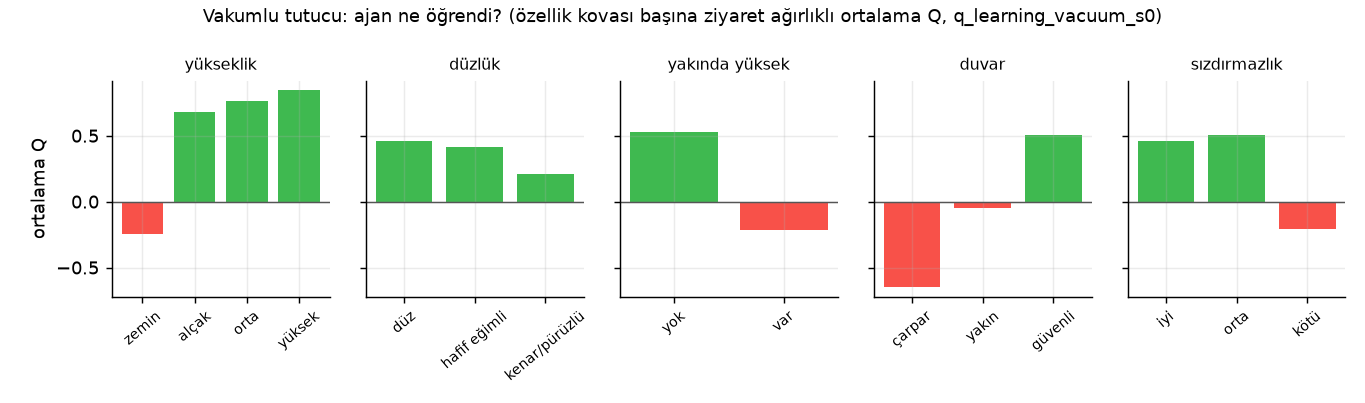
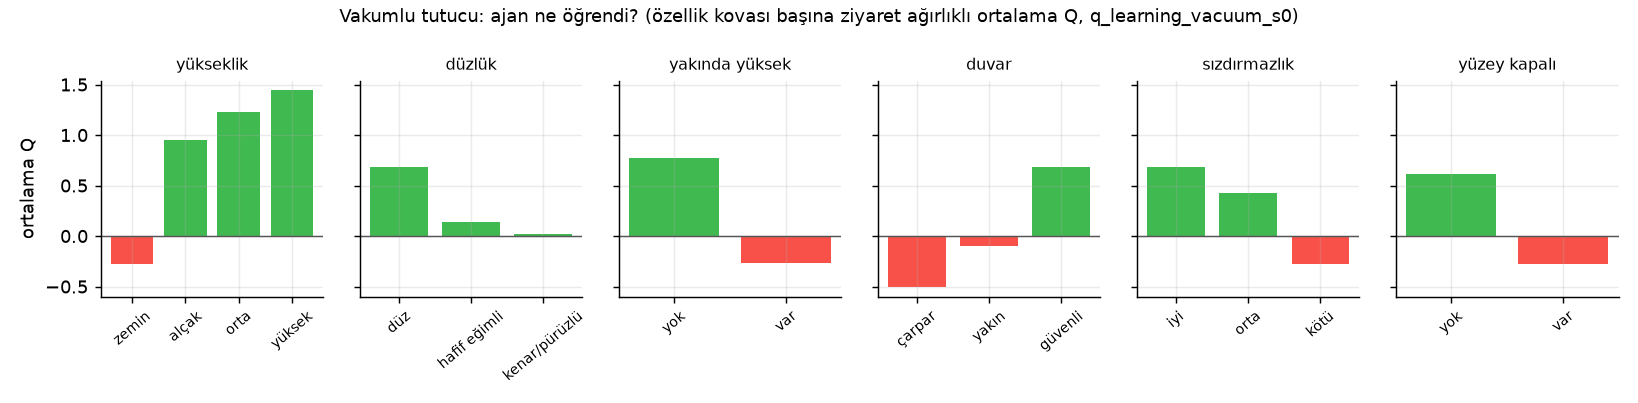
Vakum: yüzey bölütlemesine dayalı "yüzey_kapalı" özelliği
Vakumlu tutucuda tablo ajanları sezgiselin gerisindeydi (Q-learning %51.3,
SARSA %48.8, sezgisel %60.6). Başarısızlık kodları sayılınca asıl nedenin
"covered" olduğu görüldü (ajan adımlarının %36.5'i, sezgiselin %21.7'si):
üstüne başka parça binmiş bir parçanın, üstteki parçadan uzak düz bölgesi
yerel özelliklerde açık bir parçayla aynı tablo hücresine düşüyordu.

- features.py: face_touches_higher görünen düz yüzeyleri bölütler ve bölge
  kenarında daha yüksek bir yüzey varsa bütün bölgeyi işaretler. Vakum
  tablosu 216 → 432 hücre; parmaklı özellikler değişmedi.
- Sızdırmazlığı ≥ %85 olan noktalarda örtülü parça oranı, özellik 0 iken
  %14.9'dan (yakında_yüksek) %2.7'ye düşüyor.
- Sonuç (3 tohum × 3000 bölüm, 200 test kutusu): vakumda Q-learning %64.3,
  SARSA %64.3, sezgisel %60.6; parmaklı sonuçlar aynı kaldı.
- Sunucu özellik haritası, arayüz başlığı, README tablosu ve test eklendi.

diff --git a/web/src/theme.ts b/web/src/theme.ts
@@ -32,6 +32,7 @@ export const FEATURE_TITLE: Record<string, string> = {
   genişlik: "Genişlik",
   ortalı: "Ortalı",
   sızdırmazlık: "Sızdırmazlık",
+  yüzey_kapalı: "Yüzeyi kapatan parça",
 };
 
 // Yükseklik renk skalası (zemin koyu petrol → yüksek parça açık kehribar)

diff --git a/binpick/features.py b/binpick/features.py
@@ -38,6 +38,7 @@ BIN_LABELS = {
     "genişlik": [("sığar", "good"), ("sınırda", "mid"), ("çok geniş", "bad")],
     "ortalı": [("kenarda", "mid"), ("ortada", "good")],
     "sızdırmazlık": [("iyi", "good"), ("orta", "mid"), ("kötü", "bad")],
+    "yüzey_kapalı": [("yok", "good"), ("var", "bad")],
 }
 
 FEATURE_INFO = {
@@ -49,6 +50,8 @@ FEATURE_INFO = {
     "genişlik": "θ yönünde ölçülen yüzey genişliği, tutucu açıklığına sığıyor mu?",
     "ortalı": "Nokta, yüzeyin θ yönündeki ortasına yakın mı?",
     "sızdırmazlık": "Vantuz altındaki alanın ne kadarı aynı düz yüzey?",
+    "yüzey_kapalı": "Noktanın üzerinde durduğu düz yüzey (parçanın görünen üst yüzü) kenarında daha yüksek bir "
+    "yüzeye değiyor mu? Değiyorsa başka bir parça bu parçanın üstüne binmiş olabilir.",
 }
 
 
@@ -70,6 +73,33 @@ def _shift(a: np.ndarray, dr: int, dc: int, fill: float) -> np.ndarray:
     return out
 
 
+def face_touches_higher(h: np.ndarray, interior: np.ndarray, tol: float, thr: float, ring: int) -> np.ndarray:
+    """Her parça pikseli için: içinde bulunduğu düz yüzey, kenarında belirgin daha yüksek bir yüzeye değiyor mu?
+
+    `yakında_yüksek` yalnızca noktanın birkaç hücre çevresine bakar; üstü kapalı bir parçanın, üstteki
+    parçadan uzak düz bölgeleri ise yerel olarak açık bir parçadan ayırt edilemez. Burada görünen
+    yüzeyler bölütlenir (komşu yükseklik farkı `tol` altındaki bağlı bölgeler) ve özellik bölge
+    düzeyinde hesaplanır: bölgenin `ring` hücrelik çevresinde bölge yüksekliğinden `thr` kadar yüksek
+    bir nokta varsa bölgedeki bütün pikseller işaretlenir. Bir parçanın üstüne binen parça her zaman
+    daha yüksektir ve o parçanın görünen yüzüne bitişiktir; bu yüzden bu bilgi ortamın "üstü kapalı"
+    kuralının gözlemlenebilir karşılığıdır (öğrenme yok, sabit görüntü işleme).
+    """
+    on_part = interior & (h > 0.5)
+    span = ndimage.maximum_filter(h, 3, mode="nearest") - ndimage.minimum_filter(h, 3, mode="nearest")
+    lab, n = ndimage.label(on_part & (span < tol))
+    if n == 0:
+        return np.zeros(h.shape, dtype=int)
+    idx = np.arange(1, n + 1)
+    level = np.concatenate([[0.0], ndimage.median(h, lab, idx)])
+    around = ndimage.maximum_filter(np.where(interior, h, 0.0), size=2 * ring + 1, mode="nearest")
+    flag = np.concatenate([[False], np.asarray(ndimage.maximum(around, lab, idx)) > level[1:] + thr])
+    # Yüzey kenarındaki (3×3 içinde basamak olan) pikseller en yakın yüzeye, yükseklikleri uyuyorsa katılır.
+    _, (ri, ci) = ndimage.distance_transform_edt(lab == 0, return_indices=True)
+    nearest = lab[ri, ci]
+    lab = np.where((lab == 0) & on_part & (np.abs(h - level[nearest]) < tol), nearest, lab)
+    return (flag[lab] & (lab > 0)).astype(int)
+
+
 class FeatureExtractor:
     def __init__(self, env_cfg: EnvConfig, gripper_cfg: GripperConfig, feat_cfg: FeatureConfig, wall_mask: np.ndarray):
         self.ecfg, self.g, self.f = env_cfg, gripper_cfg, feat_cfg
@@ -80,8 +110,8 @@ class FeatureExtractor:
 
         g = self.g
         if g.kind == "vacuum":
-            self.names = ["yükseklik", "düzlük", "yakında_yüksek", "duvar", "sızdırmazlık"]
-            self.dims = [4, 3, 2, 3, 3]
+            self.names = ["yükseklik", "düzlük", "yakında_yüksek", "duvar", "sızdırmazlık", "yüzey_kapalı"]
+            self.dims = [4, 3, 2, 3, 3, 2]
             self.cup_offsets = geometry.cup_offsets(g)
         else:
             self.names = ["yükseklik", "düzlük", "yakında_yüksek", "duvar", "parmak_boşluğu", "genişlik", "ortalı"]
@@ -128,7 +158,8 @@ class FeatureExtractor:
         A = len(self.angles)
         shape = (A,) + h.shape
         ids = np.zeros(shape, dtype=np.int64)
-        raw = {"height": h, "level": level, "std": std, "higher": higher, "wall": [], "extent": [], "clear": [], "seal": None}
+        raw = {"height": h, "level": level, "std": std, "higher": higher, "wall": [], "extent": [], "clear": [], "seal": None,
+               "face_higher": None}
         h_obs = np.where(self.wall, self.ecfg.wall_height, h)
 
         seal_bin = None
@@ -139,6 +170,7 @@ class FeatureExtractor:
             seal = same / len(self.cup_offsets)
             raw["seal"] = seal
             seal_bin = np.where(seal >= f.seal_bins[0], 0, np.where(seal >= f.seal_bins[1], 1, 2))
+            raw["face_higher"] = face_higher = face_touches_higher(h, self.interior, g.surface_tol, f.neighbor_thr, f.face_ring)
 
         for k, th in enumerate(self.angles):
             overlap = ndimage.correlate(self.wall_f, self.body_k[k], mode="constant", cval=1.0) > 0.5
@@ -147,7 +179,7 @@ class FeatureExtractor:
             raw["wall"].append(wall)
 
             if g.kind == "vacuum":
-                feats = [level, flat, higher, wall, seal_bin]
+                feats = [level, flat, higher, wall, seal_bin, face_higher]
             else:
                 max_f = ndimage.maximum_filter(h_obs, footprint=self.finger_k[k], mode="constant", cval=self.ecfg.wall_height)
                 clear = max_f - (h - g.grasp_depth)

diff --git a/tests/test_binpick.py b/tests/test_binpick.py
@@ -88,6 +88,17 @@ def test_covered_part_cannot_be_lifted():
     assert info["outcome"] == SUCCESS
 
 
+def test_vacuum_face_feature_sees_cover_beyond_neighbor_radius():
+    _, env, fe = make_env("vacuum")
+    obs = env.reset(parts=[box(21, 21, length=14, width=6), box(21, 26, length=6, width=6)])
+    raw = fe.compute(obs).raw
+    # alttaki parçanın üstteki parçadan uzak ucu: yerel "yakında yüksek" görmez, yüzey özelliği görür
+    assert raw["higher"][21, 16] == 0
+    assert raw["face_higher"][21, 16] == 1
+    # üstteki parçanın yüzü açık
+    assert raw["face_higher"][21, 26] == 0
+
+
 @pytest.mark.parametrize("kind", ["parallel_jaw", "vacuum"])
 def test_feature_ids_in_range(kind):
     _, env, fe = make_env(kind)

diff --git a/binpick/config.py b/binpick/config.py
@@ -81,6 +81,7 @@ class FeatureConfig:
     flat_bins: tuple = (0.3, 1.0)          # yerel standart sapma: düz / hafif / pürüzlü
     neighbor_radius: int = 3
     neighbor_thr: float = 1.5              # yakında daha yüksek bir şey var mı
+    face_ring: int = 2                     # vakum: düz yüzeyin çevresinde daha yüksek yüzey aranan genişlik
     wall_margin: float = 2.0               # duvara "yakın" sayılan mesafe
     clear_bins: tuple = (0.0, 1.0)         # parmak bölgesi boşluğu: boş / sınırda / dolu
     seal_bins: tuple = (0.95, 0.85)        # vakum: iyi / orta / kötü

diff --git a/server/api.py b/server/api.py
@@ -277,6 +277,7 @@ def feature_maps(sid: str, angle_idx: int = 0):
     if g.kind == "vacuum":
         seal = f.raw["seal"]
         maps["sızdırmazlık"] = np.where(seal >= fe.f.seal_bins[0], 0, np.where(seal >= fe.f.seal_bins[1], 1, 2))
+        maps["yüzey_kapalı"] = f.raw["face_higher"]
     else:
         ext = f.raw["extent"][k]
         maps["parmak_boşluğu"] = np.digitize(f.raw["clear"][k], fe.f.clear_bins)

diff --git a/README.md b/README.md
@@ -105,8 +105,9 @@ Yükseklik haritasının tamamını tabloda tutmak imkânsızdır. Bunun yerine 
 | Genişlik* | 3 | $\theta$ yönünde ölçülen yüzey genişliği: sığar / sınırda / çok geniş |
 | Ortalı* | 2 | nokta, yüzeyin ortasında mı |
 | Sızdırmazlık** | 3 | vantuz altındaki aynı yüzey oranı |
+| Yüzeyi kapatan parça** | 2 | noktanın üzerinde durduğu düz yüzey (bölütlenmiş, parçanın görünen üst yüzü) kenarında daha yüksek bir yüzeye değiyor mu |
 
-\* parmaklı tutucu, \*\* vakumlu tutucu. Toplam tablo boyutu: parmaklıda $4 \cdot 3 \cdot 2 \cdot 3 \cdot 3 \cdot 3 \cdot 2 = 1296$, vakumluda $216$ hücre.
+\* parmaklı tutucu, \*\* vakumlu tutucu. Toplam tablo boyutu: parmaklıda $4 \cdot 3 \cdot 2 \cdot 3 \cdot 3 \cdot 3 \cdot 2 = 1296$, vakumluda $4 \cdot 3 \cdot 2 \cdot 3 \cdot 3 \cdot 2 = 432$ hücre.
 
 Özellik vektörü tek bir tamsayıya kodlanır, $\phi(s, a) \in \{0, \dots, N-1\}$, ve
 
@@ -178,9 +179,9 @@ _Bu bölüm `run_experiments.py` tarafından üretildi (2026-10-16). Ayar: 3 toh
 | Yöntem | Başarı oranı | Çarpışma oranı | Başarısız kavrama | Boşaltılan parça | Getiri | Adım |
 |---|---|---|---|---|---|---|
 | Rastgele | %3.4 | %10.1 | %86.5 | %8.5 | -5.85 | 24.68 |
-| **Sezgisel** | %60.6 | %0.0 | %39.4 | %86.0 | 6.61 | 17.19 |
-| Q-learning (3 tohum) | %51.3 ± 1.8 | %0.1 ± 0.2 | %48.6 ± 1.9 | %77.8 ± 0.3 | 5.21 ± 0.04 | 19.14 ± 0.35 |
-| SARSA (3 tohum) | %48.8 ± 2.4 | %0.0 ± 0.0 | %51.2 ± 2.4 | %76.6 ± 1.4 | 4.97 ± 0.27 | 19.62 ± 0.42 |
+| Sezgisel | %60.6 | %0.0 | %39.4 | %86.0 | 6.61 | 17.19 |
+| **Q-learning** (3 tohum) | %64.3 ± 0.5 | %0.1 ± 0.1 | %35.6 ± 0.5 | %88.4 ± 0.3 | 6.96 ± 0.05 | 16.92 ± 0.09 |
+| SARSA (3 tohum) | %64.3 ± 0.3 | %0.0 ± 0.0 | %35.7 ± 0.3 | %88.4 ± 0.3 | 6.99 ± 0.04 | 16.92 ± 0.04 |
 
 ![Eğitim eğrileri](docs/img/learning_curves_vacuum.png)
 
